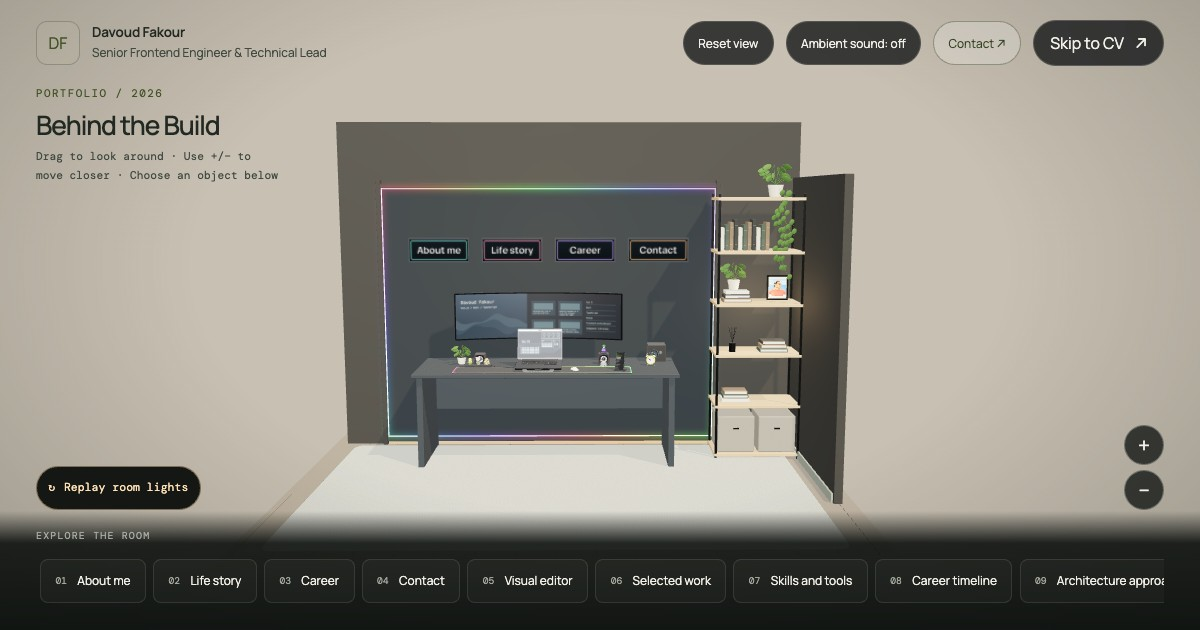
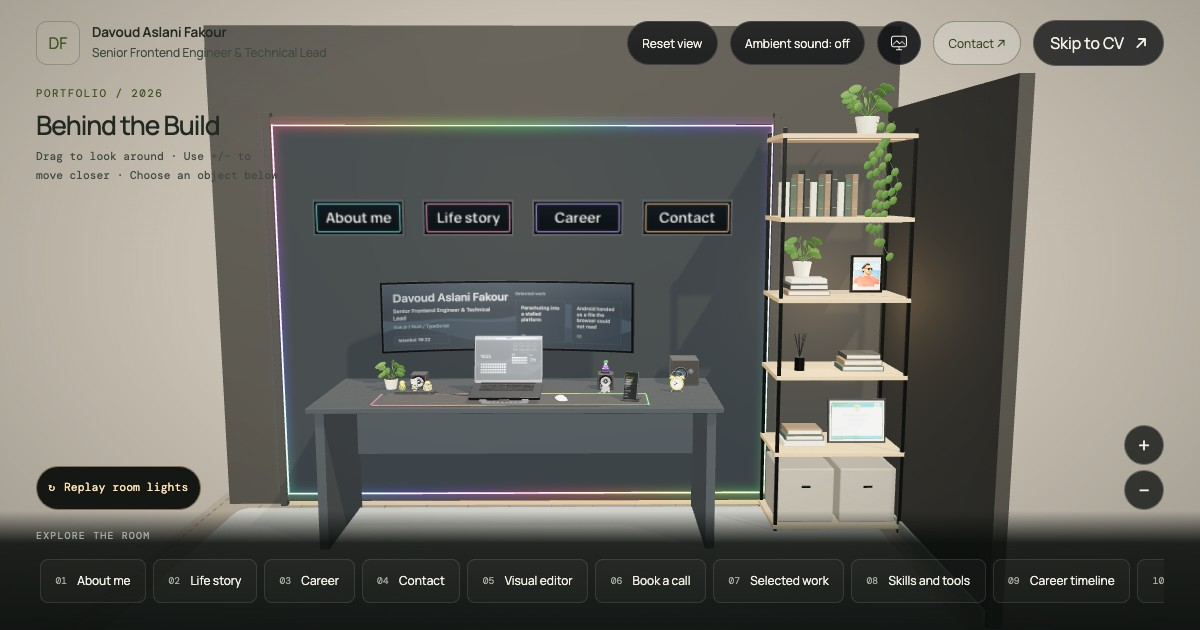
Unify portfolio identity as Davoud Aslani Fakour (#13)

diff --git a/content/portfolio.ts b/content/portfolio.ts
@@ -51,7 +51,7 @@ const text = (en: string): I18nText => ({
   fa: `TODO(translate): ${en}`,
 })
 
-/** Copy David supplied in both languages. */
+/** Copy supplied by Davoud Aslani Fakour in both languages. */
 const both = (en: string, fa: string): I18nText => ({ en, fa })
 
 export interface StoryChapter {
@@ -76,12 +76,12 @@ export interface Keepsake {
 }
 
 export const profile = {
-  name: 'Davoud Fakour',
-  alternateNames: ['Davod Fakor', 'Davoud Aslani Fakour'],
+  name: 'Davoud Aslani Fakour',
+  alternateNames: [] as string[],
   role: text('Senior Frontend Engineer & Technical Lead'),
   location: text('Istanbul, Türkiye'),
   specialties: 'Vue.js / Nuxt / TypeScript',
-  header: text('Davoud Fakour — Senior Frontend Engineer & Technical Lead · Vue.js / TypeScript · Istanbul'),
+  header: text('Davoud Aslani Fakour — Senior Frontend Engineer & Technical Lead · Vue.js / TypeScript · Istanbul'),
   summary: text('10+ years building production SaaS, fintech, payments, and education products — from client-side architecture through testing, release, and performance. AI-assisted development and AI SDKs ship with human review before production.'),
   tagline: text('Most frontend engineers build interfaces. I build the systems people use to create, collaborate, and keep a product coherent as it grows.'),
   cta: text('Open to senior Vue / frontend leadership roles in AI SaaS — available for remote work from Türkiye.'),
@@ -90,8 +90,8 @@ export const profile = {
   github: 'https://github.com/davodaslanifakor',
   medium: 'https://medium.com/@DavoudAslaniFakour',
   calendly: 'https://calendly.com/davodaslanifakor/request-call',
-  // TODO(David): add the public CV PDF to /public and set its path here.
-  cvPath: 'TODO(David)',
+  // Final approved CV shared by the CV and Studio download buttons.
+  cvPath: '/studio/Davoud_Aslani_Fakour_Resume.pdf',
   education: text('Associate’s Degree, Computer Software Engineering — Azad University (2013–2015)'),
   languages: text('English — professional working proficiency · Persian — native'),
 }
@@ -118,7 +118,7 @@ export const cvPresentation = {
 export const ui = {
   bookCall: both('Book a call', 'رزرو تماس'),
   bookingTitle: both('Let’s talk', 'بیایید صحبت کنیم'),
-  bookingFrame: both('Schedule a call with Davoud on Calendly', 'رزرو تماس با داوود در Calendly'),
+  bookingFrame: both('Schedule a call with Davoud Aslani Fakour on Calendly', 'رزرو تماس با داوود اصلانی فکور در Calendly'),
   bookingLoading: both('Opening the calendar…', 'در حال باز کردن تقویم…'),
   bookingSlow: both('Calendar taking a while? Try again or open Calendly directly.', 'تقویم دیر باز میشود؟ دوباره تلاش کنید یا Calendly را مستقیم باز کنید.'),
   bookingRetry: both('Try again', 'تلاش دوباره'),
@@ -136,7 +136,7 @@ export const ui = {
     mono: both('Mono', 'تکرنگ'),
   },
   cvNavigation: text('CV navigation'),
-  home: text('Davoud Fakour home'),
+  home: text('Davoud Aslani Fakour home'),
   skipToCv: text('Skip to CV'),
   exploreHint: text('Choose an object to open a real project story.'),
   objectNav: text('Explore the room'),
@@ -347,7 +347,7 @@ export const caseStudies: CaseStudy[] = [
     title: text('A visual editor built in the DOM'),
     problem: text('Users needed a rich, embeddable editor for multi-page brand documents without a canvas-only rendering model.'),
     action: text('Built a Vue 3 HTML-rendering editor with drag, resize, rotate, cropping, AI image tools, and HTML, PNG, and PDF export.'),
-    result: text('Version 6 represents about 19 months and 1,300 commits, with about 84% authored by David.'),
+    result: text('Version 6 represents about 19 months and 1,300 commits, with about 84% authored by Davoud Aslani Fakour.'),
   },
 ]
 
@@ -451,7 +451,7 @@ export const lifeStory = {
   ] satisfies Keepsake[],
 }
 
-/** David's supplied playlist; title verified with Spotify oEmbed. */
+/** Davoud Aslani Fakour's supplied playlist; title verified with Spotify oEmbed. */
 export const favouriteMusic: MusicTrack[] = [
   { id: 'light-playlist', title: 'Light', artist: 'Spotify', spotifyUrl: 'https://open.spotify.com/playlist/6RgbkiGSEMtH5lYyGfrggE', note: both('My listening shelf.', 'قفسهٔ شنیدنیهای من.') },
 ]
@@ -470,10 +470,10 @@ export const libraryPortrait = {
   image: '/images/library-portrait.jpeg',
   width: 512,
   height: 512,
-  imageAlt: both('Pixel-art portrait of Davoud Fakour beside the sea.', 'پرترهٔ پیکسلی داوود فکور کنار دریا.'),
+  imageAlt: both('Pixel-art portrait of Davoud Aslani Fakour beside the sea.', 'پرترهٔ پیکسلی داوود اصلانی فکور کنار دریا.'),
 }
 
-/** Artwork and credential details from David's original certificate PDF. */
+/** Artwork and credential details from Davoud Aslani Fakour's original certificate PDF. */
 export const vueCertificate = {
   title: both('Vue.js certification', 'گواهی Vue.js'),
   qualification: both('Vue.js Developer Level I', 'توسعهدهندهٔ Vue.js — سطح یک'),
@@ -537,7 +537,7 @@ export const screenContent = {
     { id: 'stockholm', label: 'Stockholm', displayName: text('Stockholm'), timeZone: 'Europe/Stockholm' },
     { id: 'atlantic', label: 'Atlantic', displayName: text('Atlantic · Reykjavík'), timeZone: 'Atlantic/Reykjavik' },
   ] satisfies ScreenCity[],
-  /** David keeps the little desk clock on Iran time, near his family. */
+  /** Davoud Aslani Fakour keeps the little desk clock on Iran time, near his family. */
   deskClockTimeZone: 'Asia/Tehran',
   left: {
     menu: ['File', 'Edit', 'View', 'Window'],
@@ -896,7 +896,7 @@ export const portfolioBrand = {
 
 export const studioCopy = {
   title: text('Davoud Aslani Fakour / Engineering & selected work'),
-  brandHome: text('Davoud Fakour studio'),
+  brandHome: text('Davoud Aslani Fakour studio'),
   nav: text('Portfolio navigation'),
   skip: text('Skip to content'),
   work: text('Work'), about: text('About'), contact: text('Let’s talk'), cv: text('Read CV'), room: text('Explore the room'),
@@ -952,12 +952,12 @@ export const studioCopy = {
     { title: text('Beyond the interface'), ids: ['react', 'next', 'postgresql', 'docker', 'agents', 'ai-sdk'] },
   ],
   aboutTitle: text('A person behind the pixels.'),
-  aboutBody: text('I’m Davoud, a frontend engineer and technical lead in Istanbul. My work spans creative tools, fintech, payments, and education. I care about the systems underneath an interface as much as the way it feels to use.'),
+  aboutBody: text('I’m Davoud Aslani Fakour, a frontend engineer and technical lead in Istanbul. My work spans creative tools, fintech, payments, and education. I care about the systems underneath an interface as much as the way it feels to use.'),
   aboutSecond: text('I like making complex tools understandable, sharing what I learn, and giving the next engineer a clearer place to start.'),
   contactLines: [text('Let’s build'), text('something useful.')],
   contactBody: profile.cta,
   contactHover: text('Let’s make it work'),
-  footer: text('Davoud Fakour. Built with care, and Vue.'),
+  footer: text('Davoud Aslani Fakour. Built with care, and Vue.'),
   previewLabel: text('Portfolio concept'), motionLink: text('Try the theme study'), backStudio: text('Back to the portfolio'),
   themeLight: text('Switch to light mode'), themeDark: text('Switch to dark mode'),
   themeLabTitle: text('A change of atmosphere.'),
@@ -987,4 +987,18 @@ export const studioPortrait = {
     { id: 'duotone', label: text('Periwinkle') },
     { id: 'mono', label: text('Monochrome') },
   ],
+}
+
+/** One public identity shared by the room, CV and Studio metadata. */
+export function personStructuredData(siteUrl: string) {
+  return {
+    '@context': 'https://schema.org',
+    '@type': 'Person',
+    '@id': new URL('/#person', siteUrl).href,
+    name: profile.name,
+    url: new URL('/studio/', siteUrl).href,
+    sameAs: [profile.github, profile.linkedin, profile.medium, new URL('/', siteUrl).href],
+    jobTitle: profile.role.en,
+    knowsAbout: ['Vue.js', 'Nuxt', 'TypeScript', 'Frontend architecture', 'Visual editors', 'AI SaaS'],
+  }
 }

diff --git a/e2e/cvTheme.spec.ts b/e2e/cvTheme.spec.ts
@@ -40,7 +40,7 @@ test('a saved preference applies before the application scripts load', { tag: '@
   await page.route('**/_nuxt/**', route => route.request().resourceType() === 'script' ? route.abort() : route.continue())
   await page.goto('/cv/')
   await expect(page.locator('.cv-page')).toHaveCSS('background-color', dark)
-  await expect(page.getByRole('heading', { name: 'Davoud Fakour', exact: true })).toBeVisible()
+  await expect(page.getByRole('heading', { name: 'Davoud Aslani Fakour', exact: true })).toBeVisible()
 })
 
 test('CV system colors remain readable without JavaScript', { tag: '@pages' }, async ({ browser, baseURL }) => {
@@ -67,7 +67,7 @@ test('the preference syncs across CV tabs and stays out of the room', { tag: '@p
     await page.getByRole('button', { name: 'Switch to dark mode' }).click()
     await expect(other.locator('.cv-page')).toHaveCSS('background-color', dark)
     await expect(other.getByRole('button', { name: 'Switch to light mode' })).toBeVisible()
-    await page.getByRole('link', { name: 'Davoud Fakour home', exact: true }).click()
+    await page.getByRole('link', { name: 'Davoud Aslani Fakour home', exact: true }).click()
     await expect(page).toHaveURL(/\/$/)
     await expect(page.locator('html')).not.toHaveClass(/cv-document/)
     await expect(page.locator('html')).not.toHaveAttribute('data-cv-theme')

diff --git a/e2e/roomEntry.spec.ts b/e2e/roomEntry.spec.ts
@@ -8,7 +8,7 @@ test('entry offers a working CV route while the 3D asset is still loading', asyn
   await expect(entry.getByRole('button', { name: 'Step inside' })).toBeDisabled()
   await entry.getByRole('link', { name: 'View my CV' }).click()
   await expect(page).toHaveURL(/\/cv\/?$/)
-  await expect(page.getByRole('heading', { name: 'Davoud Fakour', exact: true })).toBeVisible()
+  await expect(page.getByRole('heading', { name: 'Davoud Aslani Fakour', exact: true })).toBeVisible()
 })
 
 test('entry and its CV link are available without JavaScript', async ({ browser, baseURL }) => {
@@ -20,6 +20,6 @@ test('entry and its CV link are available without JavaScript', async ({ browser,
     await expect(entry.getByRole('button', { name: 'Step inside' })).toBeDisabled()
     await entry.getByRole('link', { name: 'View my CV' }).click()
     await expect(page).toHaveURL(/\/cv\/?$/)
-    await expect(page.getByRole('heading', { name: 'Davoud Fakour', exact: true })).toBeVisible()
+    await expect(page.getByRole('heading', { name: 'Davoud Aslani Fakour', exact: true })).toBeVisible()
   } finally { await context.close() }
 })

diff --git a/e2e/studio.spec.ts b/e2e/studio.spec.ts
@@ -76,7 +76,7 @@ test(
     await expect(page.locator('.cv-page')).toBeVisible()
     await expect(page.locator('html')).not.toHaveClass(/studio-document/)
     await expect(page.locator('html')).not.toHaveAttribute('data-studio-theme')
-    await expect(page.getByRole('heading', { name: 'Davoud Fakour', exact: true })).toBeVisible()
+    await expect(page.getByRole('heading', { name: 'Davoud Aslani Fakour', exact: true })).toBeVisible()
     expect(errors).toEqual([])
   },
 )
@@ -101,7 +101,7 @@ test(
     )
     const download = page.waitForEvent('download')
     await page.getByRole('button', { name: 'Save image', exact: true }).click()
-    expect((await download).suggestedFilename()).toBe('davoud-fakour-studio.png')
+    expect((await download).suggestedFilename()).toBe('davoud-aslani-fakour-studio.png')
     await page.getByRole('button', { name: 'Reset', exact: true }).click()
     await expect(page.getByLabel('Your text', { exact: true })).toHaveValue('Make it yours.')
     await expect(text).toHaveCSS('transform', 'matrix(1, 0, 0, 1, 0, 0)')

diff --git a/pages/index.vue b/pages/index.vue
@@ -27,11 +27,12 @@ const pageTitle = computed(() => `${profile.name} — ${localize(ui.roomTitle, l
 const activeObject = computed(() => sceneObjects.find((object) => object.id === focusedId.value) ?? null)
 const modalContent = computed(() => activeObject.value?.action === 'modal' && !['music', 'booking'].includes(activeObject.value.contentRef ?? '') ? activeObject.value.contentRef ?? '' : '')
 let returnFocus: HTMLElement | null = null
+usePortfolioIdentity()
 useHead(() => ({
   title: pageTitle.value,
   link: [{ rel: 'canonical', href: new URL('/', siteUrl).href }],
   meta: [
-    { name: 'description', content: 'Explore the work of senior Vue.js engineer and technical lead Davoud Fakour through an interactive room.' },
+    { name: 'description', content: 'Explore the work of senior Vue.js engineer and technical lead Davoud Aslani Fakour through an interactive room.' },
     { property: 'og:type', content: 'website' },
     { property: 'og:title', content: pageTitle.value },
     { property: 'og:description', content: profile.tagline.en },

diff --git a/pages/cv.vue b/pages/cv.vue
@@ -19,6 +19,7 @@ onMounted(() => {
   isReady.value = true
 })
 
+usePortfolioIdentity()
 useHead({
   htmlAttrs: { class: 'cv-document' },
   title: `${profile.name} — Senior Frontend Engineer & Technical Lead`,
@@ -37,20 +38,7 @@ useHead({
     { name: 'twitter:description', content: profile.tagline.en },
     { name: 'twitter:image', content: socialImage },
   ],
-  script: [
-    {
-      type: 'application/ld+json',
-      innerHTML: JSON.stringify({
-        '@context': 'https://schema.org',
-        '@type': 'Person',
-        name: profile.name,
-        alternateName: profile.alternateNames,
-        jobTitle: profile.role.en,
-        address: { '@type': 'PostalAddress', addressLocality: profile.location.en },
-        knowsAbout: ['Vue.js', 'Nuxt', 'TypeScript', 'Frontend architecture', 'Visual editors', 'AI SaaS'],
-      }),
-    },
-  ],
+
 })
 </script>
 

diff --git a/e2e/pagesPublishing.spec.ts b/e2e/pagesPublishing.spec.ts
@@ -8,7 +8,7 @@ test('CV is readable without JavaScript on static hosting', { tag: '@pages' }, a
     page.on('request', request => requested.push(request.url()))
     const response = await page.goto('/cv/')
     expect(response?.status()).toBe(200)
-    await expect(page.getByRole('heading', { name: 'Davoud Fakour', exact: true })).toBeVisible()
+    await expect(page.getByRole('heading', { name: 'Davoud Aslani Fakour', exact: true })).toBeVisible()
     await expect(page.getByRole('heading', { name: 'Experience', exact: true })).toBeVisible()
     await expect(page.getByRole('link', { name: 'LinkedIn', exact: true })).toBeVisible()
     expect(requested.some(url => /\/models\/|\/draco\//.test(url))).toBe(false)

diff --git a/e2e/booking.spec.ts b/e2e/booking.spec.ts
@@ -29,7 +29,7 @@ for (const mobile of [false, true]) {
     await expect(booking).toBeVisible()
     const iframe = booking.locator('iframe')
     await expect(iframe).toHaveAttribute('src', /calendly.com\/davodaslanifakor\/request-call\?embed_domain=127.0.0.1&embed_type=Inline/)
-    const calendar = page.frameLocator('iframe[title="Schedule a call with Davoud on Calendly"]')
+    const calendar = page.frameLocator('iframe[title="Schedule a call with Davoud Aslani Fakour on Calendly"]')
     await expect(calendar.getByRole('heading', { name: 'Choose a time' })).toBeVisible()
     const back = booking.getByRole('button', { name: 'Back to the room' })
     await expect(back).toBeFocused()

diff --git a/e2e/portfolio.spec.ts b/e2e/portfolio.spec.ts
@@ -9,7 +9,7 @@ test('recruiter can reach the CV and scan core sections', { tag: '@pages' }, asy
   await openRoom(page)
   await page.getByRole('link', { name: /skip to cv/i }).click()
   await expect(page).toHaveURL(/\/cv$/)
-  await expect(page.getByRole('heading', { name: 'Davoud Fakour' })).toBeVisible()
+  await expect(page.getByRole('heading', { name: 'Davoud Aslani Fakour' })).toBeVisible()
   await expect(page.getByRole('heading', { name: 'Experience' })).toBeVisible()
   await expect(page.getByRole('heading', { name: 'Selected work' })).toBeVisible()
 })

diff --git a/pages/studio/motion.vue b/pages/studio/motion.vue
@@ -3,8 +3,9 @@ import { studioCopy } from '~/content/portfolio'
 import StudioShell from '~/components/studio/StudioShell.vue'
 import StudioMotionLab from '~/components/studio/StudioMotionLab.vue'
 import StudioFooter from '~/components/studio/StudioFooter.vue'
+usePortfolioIdentity()
 useHead({
-  title: `${studioCopy.themeLabTitle.en} / Davoud Fakour`,
+  title: `${studioCopy.themeLabTitle.en} / Davoud Aslani Fakour`,
   meta: [{ name: 'robots', content: 'noindex, nofollow' }],
 })
 </script>

diff --git a/composables/usePortfolioIdentity.ts b/composables/usePortfolioIdentity.ts
@@ -1,0 +1,13 @@
+import { personStructuredData } from '~/content/portfolio'
+
+/** Stable identity ID and server-rendered JSON-LD on every portfolio route. */
+export function usePortfolioIdentity() {
+  const siteUrl = useRuntimeConfig().public.siteUrl
+  useHead({
+    script: [{
+      key: 'portfolio-person',
+      type: 'application/ld+json',
+      innerHTML: JSON.stringify(personStructuredData(siteUrl)).replace(/</g, '\\u003c'),
+    }],
+  })
+}

diff --git a/pages/studio/index.vue b/pages/studio/index.vue
@@ -11,6 +11,7 @@ import StudioAbout from '~/components/studio/StudioAbout.vue'
 import StudioContact from '~/components/studio/StudioContact.vue'
 import StudioFooter from '~/components/studio/StudioFooter.vue'
 const siteUrl = useRuntimeConfig().public.siteUrl
+usePortfolioIdentity()
 useHead({
   title: studioCopy.title.en,
   link: [{ rel: 'canonical', href: new URL('/studio/', siteUrl).href }],
